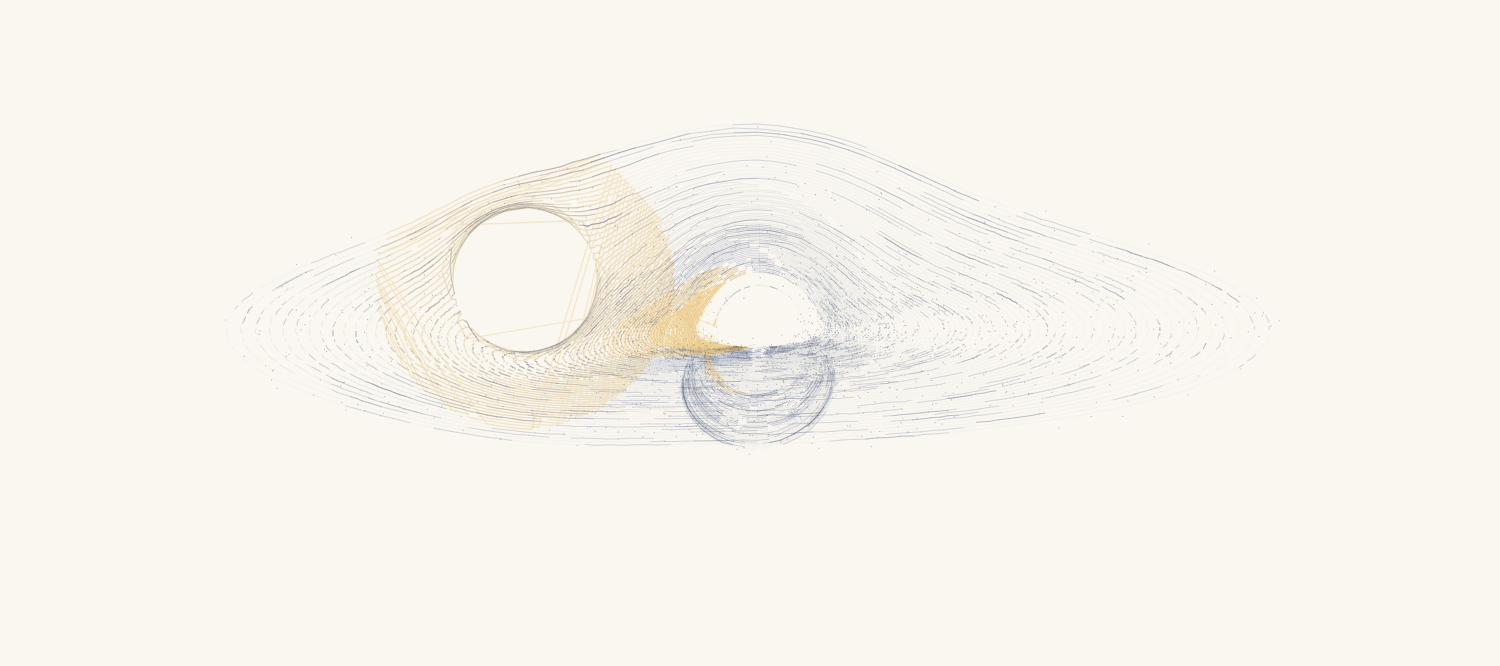
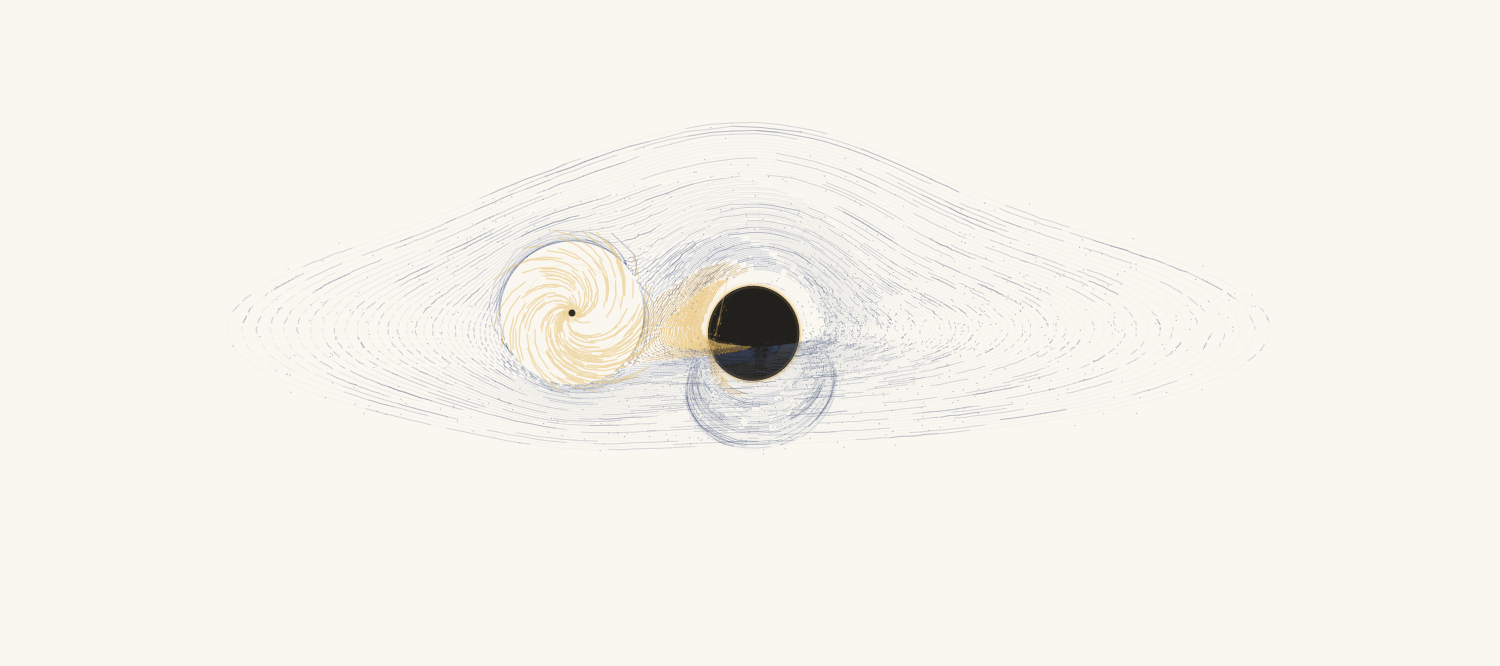
proto: black hole reads as black, and the cursor accretes
Two things were wrong.

1. The shadow was bare paper. On cream that reads as LIGHT -- a hole in
   the ink, not a black hole. It is now filled with ink, and drawn before
   the streamlines so the disk's near side strokes across it (rays with
   b < b_crit that clip the disk before plunging do carry light, so a flat
   pasted disc would be wrong as well as ugly).

   Also adds the shadow properly: apparent radius 3*sqrt(3) M, the critical
   impact parameter -- a circle at EVERY inclination, only the disk around
   it changes shape. Plus the photon ring on its edge, where rays loop the
   hole several times before escaping.

2. The cursor only bent light; it should also eat. Grains drifting inside
   the second mass's capture radius are stripped off their ring and spiral
   in over ~0.75 s, brightening as they fall, then respawn so the disk
   never depletes. The knot at the cursor brightens with the infall rate.

The shadow takes a DAMPED lens (0.3x): it is a filled region, and at close
range the full displacement folds its outline through itself, which the
nonzero winding rule renders as stripes. Strokes do not have this problem,
which is why only the fill needed it. Tidal-heating pass also cut from
150px/0.30 alpha to 66px/0.17 -- it was flooding the frame with gold.

Measured at 1500x666 over two runs: 4.4-5.1 ms/frame idle, 5.6-8.4 ms with
the lens active and ~200-370 grains accreting. One run reported ~11 ms
[…]

Changed region(s): [[0.2147, 0.2102, 0.7053, 0.6907], [0.46, 0.1802, 0.552, 0.2102], [0.644, 0.3303, 0.6747, 0.3604]]

diff --git a/prototypes/blackhole.html b/prototypes/blackhole.html
@@ -84,6 +84,19 @@ const BUCKETS = [
 ];
 const HOT = '232,196,120';
 
+// The shadow of a Schwarzschild hole is a circle of apparent radius 3*sqrt(3) M,
+// the critical impact parameter -- and it is a circle at EVERY inclination; only
+// the disk around it changes shape. On cream paper an unfilled void reads as light,
+// so the shadow has to be actual ink or the thing never feels black.
+const B_CRIT = 3 * Math.SQRT2 * Math.SQRT2 * Math.sqrt(3) / 2;   // = 3*sqrt(3)
+const SHADOW = '20,18,15';
+// Rays with b just above b_crit loop the hole many times before escaping, which is
+// why a thin, very bright photon ring sits right on the shadow's edge.
+const RING_SCALE = 1.018;
+
+const INFALL_T = 0.75;   // seconds for a captured grain to reach the cursor
+const WIND = 3.6;        // radians of spiral on the way in
+
 const stage = document.getElementById('stage');
 const cv = document.getElementById('c');
 const ctx = cv.getContext('2d');
@@ -214,21 +227,21 @@ function buildMap(incDeg) {
   }
   for (let k = 0; k < NDOTS; k++) {
     const c = (rnd() * curves.length) | 0;
-    if (curves[c]) dots.push({ c, ph: rnd(), jx: (rnd() - 0.5) * 2.4, jy: (rnd() - 0.5) * 2.4 });
+    if (curves[c]) dots.push({ c, ph: rnd(), jx: (rnd() - 0.5) * 2.4, jy: (rnd() - 0.5) * 2.4, cap: 0, ox: 0, oy: 0 });
   }
 }
 const flow = [], dots = [];
+let lastFalling = 0;
 
 // ---- cursor lens ------------------------------------------------------------
 // image displacement for a point lens: d -> d + tE^2 / d, softened at the core
 let mx = -1e5, my = -1e5, tx = -1e5, ty = -1e5, influence = 0, cursorMass = 1;
 const CORE = 26;
-function lensPoint(x, y) {
+function lensPoint(x, y, scale) {
   if (influence < 0.002) return [x, y];
   const dx = x - mx, dy = y - my;
-  const d2 = dx * dx + dy * dy;
-  const d = Math.sqrt(d2) || 1e-6;
-  const tE2 = 2400 * cursorMass * influence * DPR;
+  const d = Math.hypot(dx, dy) || 1e-6;
+  const tE2 = 2400 * cursorMass * influence * DPR * (scale === undefined ? 1 : scale);
   const push = tE2 / (d + CORE);
   const s = 1 + push / d;
   return [mx + dx * s, my + dy * s];
@@ -237,10 +250,29 @@ function lensPoint(x, y) {
 // ---- render -----------------------------------------------------------------
 function toScreen(ux, uy) { return [CX + ux * SCALE, CY + uy * SCALE]; }
 
-function drawField(g, t, animate) {
+// a circle in model units, lensed by the cursor -- so the shadow and photon ring
+// distort correctly when the second mass passes in front of them
+// The shadow is a filled region, not a stroke, so it cannot take the full lens: at
+// close range the displacement folds the outline back through itself and the nonzero
+// winding rule renders the overlap as stripes. A damped push keeps the distortion
+// legible and the polygon simple.
+const SHADOW_LENS = 0.3;
+function lensedCircle(rModel, steps) {
+  const p = new Path2D();
+  for (let i = 0; i <= steps; i++) {
+    const a = (i / steps) * Math.PI * 2;
+    const [rx, ry] = toScreen(rModel * Math.cos(a), rModel * Math.sin(a));
+    const [x, y] = lensPoint(rx, ry, SHADOW_LENS);
+    if (i === 0) p.moveTo(x, y); else p.lineTo(x, y);
+  }
+  p.closePath();
+  return p;
+}
+
+function drawField(g, t, animate, dt) {
   const paths = BUCKETS.map(() => new Path2D());
   const hotPath = new Path2D();
-  const hotR = 150 * Math.sqrt(cursorMass);
+  const hotR = 66 * Math.sqrt(cursorMass) * DPR;
 
   for (const c of curves) {
     for (const [bkt, i0, i1] of c.runs) {
@@ -278,6 +310,17 @@ function drawField(g, t, animate) {
   }
 
   g.lineCap = 'round'; g.lineJoin = 'round';
+
+  // Shadow FIRST, so the disk's near side strokes over it: rays with b < b_crit
+  // that clip the disk before plunging do carry light, and drawing the streamlines
+  // on top is what keeps this from looking like a flat pasted disc.
+  const shadow = lensedCircle(B_CRIT, 96);
+  g.fillStyle = `rgba(${SHADOW},0.94)`;
+  g.fill(shadow);
+  const ring = lensedCircle(B_CRIT * RING_SCALE, 96);
+  g.strokeStyle = `rgba(${HOT},0.13)`; g.lineWidth = 7 * DPR; g.stroke(ring);
+  g.strokeStyle = `rgba(${HOT},0.55)`; g.lineWidth = 1.6 * DPR; g.stroke(ring);
+
   // bloom under the hottest band
   g.strokeStyle = `rgba(${BUCKETS[4].rgb},0.10)`;
   g.lineWidth = 5 * DPR; g.stroke(paths[4]);
@@ -287,8 +330,8 @@ function drawField(g, t, animate) {
     g.stroke(paths[i]);
   }
   if (influence > 0.002) {
-    g.strokeStyle = `rgba(${HOT},${(0.30 * influence).toFixed(3)})`;
-    g.lineWidth = 1.4 * DPR; g.stroke(hotPath);
+    g.strokeStyle = `rgba(${HOT},${(0.17 * influence).toFixed(3)})`;
+    g.lineWidth = 1.3 * DPR; g.stroke(hotPath);
   }
 
   if (!animate) return;
@@ -320,18 +363,69 @@ function drawField(g, t, animate) {
   g.strokeStyle = 'rgba(58,74,112,0.17)'; g.lineWidth = 1.0 * DPR; g.stroke(cool);
   g.strokeStyle = `rgba(${HOT},0.32)`;    g.lineWidth = 1.4 * DPR; g.stroke(warm);
 
-  // particulate layer: loose grains riding the same flow, for the speckle texture
+  // Particulate layer, and the cursor's own accretion. A grain that drifts inside
+  // the second mass's capture radius is stripped off its ring and spirals in,
+  // brightening as it falls -- infall compresses and heats. It respawns on its
+  // original ring, so the disk never depletes.
   const dCool = new Path2D(), dWarm = new Path2D(), sz = Math.max(1, 1.1 * DPR);
+  const fall = new Path2D();
+  const tE = Math.sqrt(2400 * cursorMass * DPR);
+  const capR = tE * 2.1;
+  let falling = 0;
+
   for (const d of dots) {
     const c = curves[d.c]; if (!c) continue;
     const k = (((d.ph + t * c.omega * 0.9) % 1) * c.n) | 0;
     const uxv = c.ux[k]; if (Number.isNaN(uxv)) continue;
-    let [x, y] = toScreen(uxv + d.jx, c.uy[k] + d.jy);
-    [x, y] = lensPoint(x, y);
+    const [rx, ry] = toScreen(uxv + d.jx, c.uy[k] + d.jy);
+    const [x, y] = lensPoint(rx, ry);
+
+    if (d.cap > 0) {
+      falling++;
+      d.cap += dt / INFALL_T;
+      if (d.cap >= 1) { d.cap = 0; continue; }          // consumed; back on its ring
+      const ang0 = Math.atan2(d.oy - my, d.ox - mx);
+      const r0 = Math.hypot(d.ox - mx, d.oy - my);
+      let started = false;
+      for (let q = 0; q < 4; q++) {                      // short infall trail
+        const s = d.cap - q * 0.07;
+        if (s <= 0) break;
+        const rr = r0 * Math.pow(1 - s, 1.35);
+        const aa = ang0 + s * WIND;
+        const fx = mx + rr * Math.cos(aa), fy = my + rr * Math.sin(aa);
+        if (started) fall.lineTo(fx, fy); else { fall.moveTo(fx, fy); started = true; }
+      }
+      continue;
+    }
+    if (influence > 0.25 && Math.hypot(x - mx, y - my) < capR && Math.random() < 0.035) {
+      d.cap = 0.001; d.ox = x; d.oy = y;
+      continue;
+    }
     (c.br[k] > 1.35 ? dWarm : dCool).rect(x, y, sz, sz);
   }
   g.fillStyle = 'rgba(52,66,102,0.34)'; g.fill(dCool);
   g.fillStyle = `rgba(${HOT},0.5)`;     g.fill(dWarm);
+  if (falling) {
+    g.strokeStyle = `rgba(${HOT},${(0.55 * influence).toFixed(3)})`;
+    g.lineWidth = 1.3 * DPR; g.stroke(fall);
+  }
+  lastFalling = falling;
+
+  // the second mass itself: a small ink core, its Einstein radius, and the hot knot
+  // where captured matter lands
+  if (influence > 0.01) {
+    g.beginPath();
+    g.arc(mx, my, tE, 0, Math.PI * 2);
+    g.strokeStyle = `rgba(${HOT},${(0.16 * influence).toFixed(3)})`;
+    g.lineWidth = 1 * DPR; g.stroke();
+    const knot = Math.min(1, falling / 40);
+    g.beginPath();
+    g.arc(mx, my, (4.5 + 5 * knot) * DPR, 0, Math.PI * 2);
+    g.fillStyle = `rgba(${HOT},${(0.30 * knot * influence).toFixed(3)})`; g.fill();
+    g.beginPath();
+    g.arc(mx, my, 3.4 * DPR, 0, Math.PI * 2);
+    g.fillStyle = `rgba(${SHADOW},${(0.88 * influence).toFixed(3)})`; g.fill();
+  }
 }
 
 // ---- sizing -----------------------------------------------------------------
@@ -398,12 +492,12 @@ function frame(ts) {
     // fully static: draw the base once and blit it thereafter
     if (!cacheValid) {
       cctx.clearRect(0, 0, W, H);
-      drawField(cctx, 0, false);
+      drawField(cctx, 0, false, dt);
       cacheValid = true;
     }
     ctx.drawImage(cache, 0, 0);
   } else {
-    drawField(ctx, t, animate);
+    drawField(ctx, t, animate, dt);
   }
 
   acc += performance.now() - f0; frames++;
@@ -412,6 +506,7 @@ function frame(ts) {
     hud.textContent =
       `curves         ${curves.length}  (${pts.toLocaleString()} base vertices + ${(flow.length * FLOW_LEN).toLocaleString()} streak vertices)\n` +
       `frame          ${(acc / frames).toFixed(2)} ms   (budget 16.7)   lens ${lensActive ? 'ACTIVE' : 'idle'}\n` +
+      `accreting      ${lastFalling} grains falling into the cursor\n` +
       `lens rebuild   ${buildMs.toFixed(1)} ms  (inclination change only)\n` +
       `canvas         ${W}x${H} @ DPR ${DPR}${reduced ? '   reduced-motion: static' : ''}`;
     acc = 0; frames = 0;
